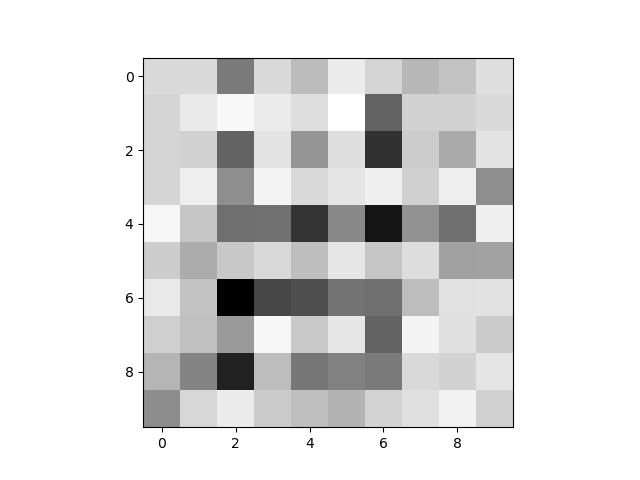
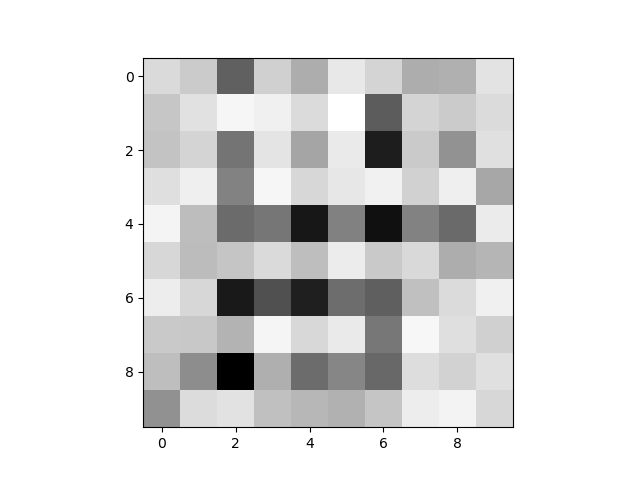
Tuned weight parameter to get much better thresholded images from resulting z

diff --git a/toy_example_sos.py b/toy_example_sos.py
@@ -5,9 +5,21 @@ from cvxpy import *
 
 np.random.seed(1)
 p_num = 5
-f_name = "data/circuit_array.txt"
+# w_high = 0.75   # Circuit array: MSE = 0.07
+w_high = 0.5   # Smiley: MSE = 0.02
+# lam = 0.5
+# I_high = 0.75
+# I_low = 0.25
+I_high = Variable()
+I_low = Variable()
+
+save_figs = False
+in_name = "data/smiley_array.txt"
+out_name_d = "figures/smiley_desired.png"
+out_name_r = "figures/smiley_result.png"
+out_name_rc = "figures/smiley_result_cut.png"
 # S = np.random.randint(0, 2, size = (5,5))
-S = np.loadtxt(open(f_name, "rb"), delimiter=",")
+S = np.loadtxt(open(in_name, "rb"), delimiter=",")
 
 k,l = S.shape
 n = np.prod(S.shape)
@@ -31,49 +43,71 @@ def intensity(z, Z, Phi):
 	term3 = 2*diag(real(Phi.H*z*ones.T*Phi))
 	return (term1 + term2 + term3)/4
 
+# Reduce to rank 1 matrix decomposition
+def reduce_rank(Z):
+	m, n = Z.shape
+	w, v = np.linalg.eigh(Z)
+	w_hat = np.sqrt(w[-1])   # Take largest singular value
+	z = w_hat*v[:,-1]
+	return z
+
 # Solve convex relaxation
 z = Variable((n,1))
 Z = Variable((n,n), symmetric = True)   # Z = zz^T
-I_high = Variable()
-I_low = Variable()
-w_high = 1.0
 
 H_mat = bmat([[np.array([[1]]), z.T], [z, Z]])   # H = [[1, z^T], [z, Z]]
 I = sum([intensity(z, Z, Phi) for Phi in Phis])
+# reg = lam*norm(Z, "nuc")
 obj = w_high*sum(neg(I[S_vec == 1] - I_high)) + sum(pos(I[S_vec == 0] - I_low))
-
-# obj = I_high - I_low
-cons = [diag(Z) == 1, H_mat >> 0, I_low >= 0, I_high >= I_low]
+# cons = [diag(Z) == 1, H_mat >> 0]
+cons = [diag(Z) == 1, H_mat >> 0, I_high >= I_low, I_low >= 0]
 prob = Problem(Minimize(obj), cons)
 prob.solve("MOSEK")
 print("Status: {}".format(prob.status))
+# print("Rank of Z: {}".format(np.linalg.matrix_rank(Z.value)))
+print("Eigenvalues of Z: {}".format(np.linalg.eigvals(Z.value)))
+print("I_high: {}".format(I_high.value))
+print("I_low: {}".format(I_low.value))
 
 # Real mask must be binary
 z_bin = np.sign(z.value)
+# z_bin = np.sign(reduce_rank(Z.value))
 m_bin = (z_bin + 1)/2
 M_bin = m_bin.dot(m_bin.T)
 I_bin = sum([np.diag(Phi.H.dot(M_bin).dot(Phi)) for Phi in Phis])
 
-# Retrieve solution
+# Retrieve and threshold solution
 I_sol = np.real(I_bin)
 S_sol = np.reshape(I_sol, (k,l))   # Reshape into 2-D image
-print("MSE in Substrate: {}".format(np.linalg.norm(S - S_sol)**2/n))
-print("I_low is", I_low.value)
-print("I_high is", I_high.value)
+I_sol_cut = np.full(I_sol.shape, 0.5)
+# I_sol_cut[I_sol >= I_high] = 1
+# I_sol_cut[I_sol <= I_low] = 0
+I_sol_cut[I_sol >= I_high.value] = 1
+I_sol_cut[I_sol <= I_low.value] = 0
+S_sol_cut = np.reshape(I_sol_cut, (k,l))   # Reshape into 2-D image
+# print("MSE in Substrate: {}".format(np.linalg.norm(S - S_sol)**2/n))
+print("MSE in Thresholded Substrate: {}".format(np.linalg.norm(S - S_sol_cut)**2/n))
 
 # Display resulting substrate
-f, axarr = plt.subplots(1,2)
+f, axarr = plt.subplots(1,3)
 axarr[0].imshow(S, cmap = "Greys", interpolation = "nearest")
 axarr[0].set_title("Desired Substrate")
 axarr[1].imshow(S_sol, cmap = "Greys", interpolation = "nearest")
 axarr[1].set_title("Solution Substrate")
+axarr[2].imshow(S_sol_cut, cmap = "Greys", interpolation = "nearest")
+axarr[2].set_title("Thresholded Substrate")
 plt.show()
 
 # Save images for paper
-f = plt.figure()
-plt.imshow(S, cmap = "Greys", interpolation = "nearest")
-f.savefig("figures/circuit_desired.png", dpi = f.dpi)
+if save_figs:
+	f = plt.figure()
+	plt.imshow(S, cmap = "Greys", interpolation = "nearest")
+	f.savefig(out_name_d, dpi = f.dpi)
 
-f = plt.figure()
-plt.imshow(S_sol, cmap = "Greys", interpolation = "nearest")
-f.savefig("figures/circuit_result.png", dpi = f.dpi)
+	f = plt.figure()
+	plt.imshow(S_sol, cmap = "Greys", interpolation = "nearest")
+	f.savefig(out_name_r, dpi = f.dpi)
+	
+	f = plt.figure()
+	plt.imshow(S_sol_cut, cmap = "Greys", interpolation = "nearest")
+	f.savefig(out_name_rc, dpi = f.dpi)
